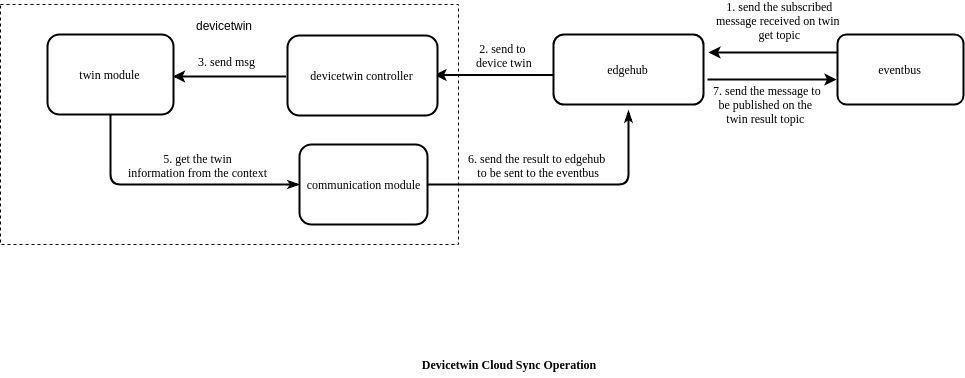
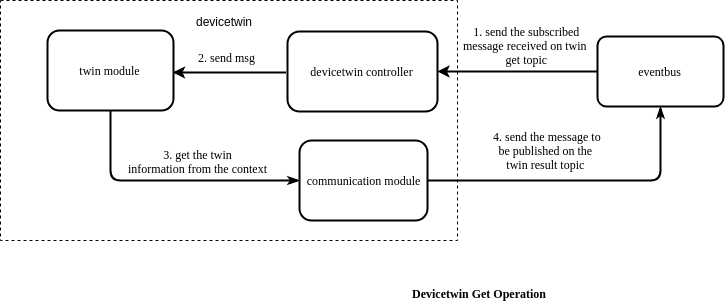
docs: Improved the documentation of devicetwin module

diff --git a/modules/devicetwin.md b/modules/devicetwin.md
@@ -78,16 +78,34 @@ The following are the action callbacks which can be performed by the membership 
    - dealMembershipUpdated
    - dealMembershipDetail
 
-**dealMembershipGet**:   dealMembershipGet() deal gets the membership event, providing information
-                         about the devices associated with the edge node for a particular event id.
+**dealMembershipGet**:   dealMembershipGet() deal gets the information  about the devices associated with the
+                                                                    particular edge node, from the cache. The eventbus first receives a message on its subscribed topic (membership-get topic).
+                                                                    This message arrives at the  devicetwin controller, which further sends the message to membership module.  The membership module
+                                                                     gets the devices associated with the edge node from the cache (context) and sends the information to the communication module, 
+                                                                     it also handles errors that may arise while performing the  aforementioned process and sends the error to the communication module
+                                                                      instead of device details.The communication module sends the information to the  eventbus component which further publishes the result on the 
+                                                                     specified MQTT topic (get membership result topic). 
+
+  <img src="../images/devicetwin/membership-get.png">
+
 
 **dealMembershipUpdated**:  dealMembershipUpdated() updates the membership details of the node. 
                             It adds the devices, that were newly added, to the edge group and removes the devices, that were removed,
-                            from the edge group 
+                            from the edge group and updates device details, if they have been altered or updated. The eventbus module receives the message that arrives on the subscribed topic and forwards the message 
+                            to devicetwin controller which further forwards it to the membership module. The membership  module adds devices that are newly added, removes devices that have been recently 
+                            deleted and also updates the devices that were already existing in the database as well as in the cache. After updating the details of the devices a  message is sent
+                            to the communication module of the device twin, which sends the message to eventbus module to be published on the given MQTT topic. 
+                            
+  <img src="../images/devicetwin/membership-update.png">
                     
+                                        
 **dealMembershipDetail**:   dealMembershipDetail() provides the membership details of the edge node, providing information
                             about the devices associated with the edge node, after removing the membership details of 
-                            recently removed devices.
+                            recently removed devices. The eventbus module receives the message that arrives on the subscribed topic,the message is then forwarded  to the 
+                            devicetwin controller which further forwards it to the membership module. The membership  module adds devices that are mentioned in the message, removes 
+                            devices that that are not present in the cache. After updating the details of the devices a  message is sent to the communication module of the device twin.
+
+  <img src="../images/devicetwin/membership-detail.png">
 
 
 ### Twin Module
@@ -118,12 +136,10 @@ The following are the action callbacks which can be performed by the twin module
   <img src="../images/devicetwin/devicetwin-update.png">
                  
                  
-**dealTwinGet**: dealTwinGet() provides the device twin  information for a particular device. The edgehub component  receives the message that arrives on the subscribed twin get topic through the 
-                                               eventbus component. The edgehub component forwards the message to devicetwin controller, 
-                                               which further sends the message to twin module. The twin module gets the devicetwin related information for the particular device and 
+**dealTwinGet**: dealTwinGet() provides the device twin  information for a particular device. The eventbus component  receives the message that arrives on the subscribed twin get topic. 
+                                              and forwards the message to devicetwin controller, which further sends the message to twin module. The twin module gets the devicetwin related information for the particular device and 
                                                sends it to the communication module, it also handles errors that arise when the device is not found or if any internal problem occurs.
-                                                The communication module sends the information to the edgehub component which further sends it to the eventbus component.
-                                                The eventbus component publishes the result on the topic specified . 
+                                                The communication module sends the information to the eventbus component, which publishes the result on the topic specified . 
                                                 
   <img src="../images/devicetwin/devicetwin-get.png">
 
@@ -194,16 +210,15 @@ The following are the action callbacks which can be performed by the device modu
    
  **dealDeviceUpdated**: dealDeviceUpdated() deals with the operations to be performed when a device attribute update is encountered.
                         It updates the changes to the device attributes, like addition of attributes, updation of attributes and deletion of attributes,
-                        in the database. It also sends the result of the device attribute update to be  published to the eventhub component]
-                        through the communicate module of devicetwin. The eventhub component further sends the received message to eventbus which
-                        publishes the result on the specified topic.                      
+                        in the database. It also sends the result of the device attribute update to be  published to the eventbus component]
+                        through the communicate module of devicetwin. The eventbus component further publishes the result on the specified topic.                      
  
   <img src="../images/devicetwin/device-update.png">                                             
  
  **dealDeviceStateUpdate**:  dealDeviceStateUpdate() deals with the operations to be performed when a device status update is encountered.
                              It updates the state of the device as well as the last online time of the device in the database.
-                             It also sends the update state result to the cloud as well as the edgehub module (which in turn sends it to the eventbus
-                             module which publishes the result on the specified topic of the MQTT broker), through the communication module   
+                             It also sends the update state result, through the communication module,  to the cloud through the edgehub module and to the  eventbus module which in turn 
+                             publishes the result on the specified topic of the MQTT broker.
 
   <img src="../images/devicetwin/device-state-update.png">                                             
   
@@ -221,16 +236,14 @@ DeviceTwin module creates three tables in the database, namely :-
 
 Device table contains the data regarding the devices added to a particular edge node.
 The following are the columns present in the device table :-
-    
-   - **ID**:  This field indicates the id assigned to the device
-    
-   - **Name**: This field indicates the name of the device
-   
-   - **Description**: This field indicates the description of the device
-   
-   - **State**: This field indicates the state of the device
-   
-   - **LastOnline**: This fields indicates when the device was last online
+        
+|Column Name | Description |
+|----------------|--------------------------|
+|**ID** |  This field indicates the id assigned to the device
+|**Name** | This field indicates the name of the device
+|**Description** | This field indicates the description of the device
+|**State** | This field indicates the state of the device
+|**LastOnline** | This fields indicates when the device was last online
 
 
 **Operations Performed :-**   
@@ -263,21 +276,16 @@ The following are the operations that can be performed on this data :-
 Device attribute table contains the data regarding the device attributes associated with a particular device in the edge node.
 The following are the columns present in the device attribute table :-
     
-   - **ID**:  This field indicates the id assigned to the device attribute
-    
-   - **DeviceID**:  This field indicates the device id of the device associated with this attribute
-    
-   - **Name**: This field indicates the name of the device attribute
-   
-   - **Description**: This field indicates the description of the device attribute
-   
-   - **Value**: This field indicates the value of the device attribute
-   
-   - **Optional**: This fields indicates whether the device attribute is optional or not
-   
-   - **AttrType**: This fields indicates the type of attribute that is referred to
-   
-   - **Metadata**: This fields describes the metadata associated with the device attribute 
+|Column Name | Description |
+|----------------|--------------------------|
+| **ID** |  This field indicates the id assigned to the device attribute
+| **DeviceID** |  This field indicates the device id of the device associated with this attribute
+| **Name** | This field indicates the name of the device attribute
+|**Description** | This field indicates the description of the device attribute
+|**Value** | This field indicates the value of the device attribute
+| **Optional** | This fields indicates whether the device attribute is optional or not
+|**AttrType** | This fields indicates the type of attribute that is referred to
+|**Metadata**|This fields describes the metadata associated with the device attribute 
 
 
 **Operations Performed :-**   
@@ -306,31 +314,21 @@ The following are the operations that can be performed on this data :-
 Device twin table contains the data related to the device device twin associated with a particular device in the edge node.
 The following are the columns present in the device twin table :-
     
-   - **ID**:  This field indicates the id assigned to the device twin
-    
-   - **DeviceID**:  This field indicates the device id of the device associated with this device twin
-    
-   - **Name**: This field indicates the name of the device twin
-   
-   - **Description**: This field indicates the description of the device twin
-   
-   - **Expected**: This field indicates the expected value of the device 
-
-   - **Actual**: This field indicates the actual value of the device 
-
-   - **ExpectedMeta**: This field indicates the metadata associated with the expected value of the device 
-
-   - **ActualMeta**: This field indicates the metadata associated with the actual value of the device 
-
-   - **ExpectedVersion**: This field indicates the version of the expected value of the device
-
-   - **ActualVersion**: This field indicates the version of the actual value of the device 
-   
-   - **Optional**: This fields indicates whether the device twin is optional or not
-   
-   - **AttrType**: This fields indicates the type of attribute that is referred to
-   
-   - **Metadata**: This fields describes the metadata associated with the device twin
+|Column Name | Description |
+|----------------|--------------------------|
+   | **ID** | This field indicates the id assigned to the device twin
+   | **DeviceID** |  This field indicates the device id of the device associated with this device twin
+   |**Name**| This field indicates the name of the device twin
+   |**Description**| This field indicates the description of the device twin
+   |**Expected**| This field indicates the expected value of the device 
+   |**Actual**| This field indicates the actual value of the device 
+   | **ExpectedMeta**| This field indicates the metadata associated with the expected value of the device 
+   |**ActualMeta**| This field indicates the metadata associated with the actual value of the device 
+   | **ExpectedVersion**| This field indicates the version of the expected value of the device
+   |**ActualVersion**| This field indicates the version of the actual value of the device 
+   |**Optional**| This fields indicates whether the device twin is optional or not
+   |**AttrType**| This fields indicates the type of attribute that is referred to
+   | **Metadata**| This fields describes the metadata associated with the device twin
 
 
 **Operations Performed :-**   
